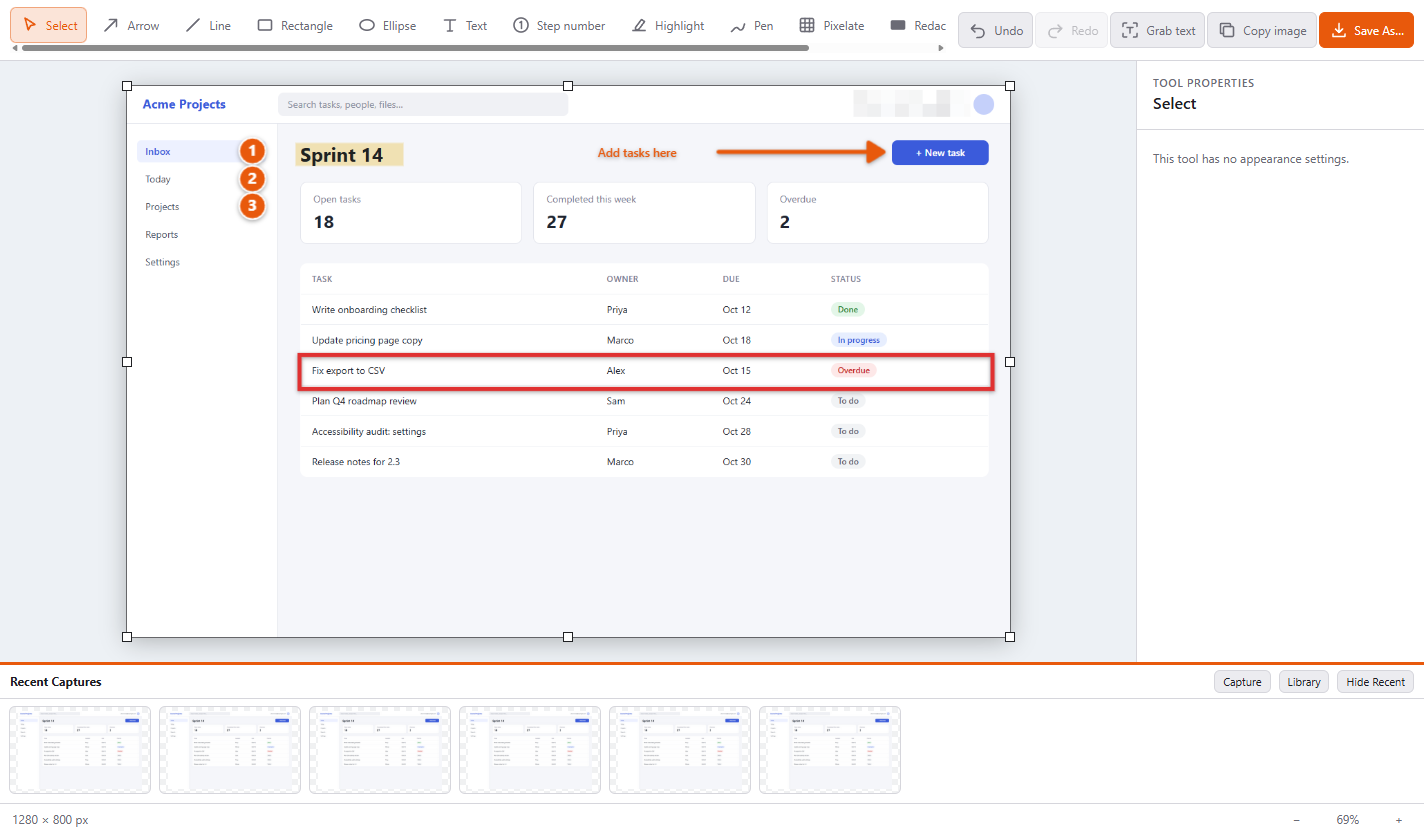
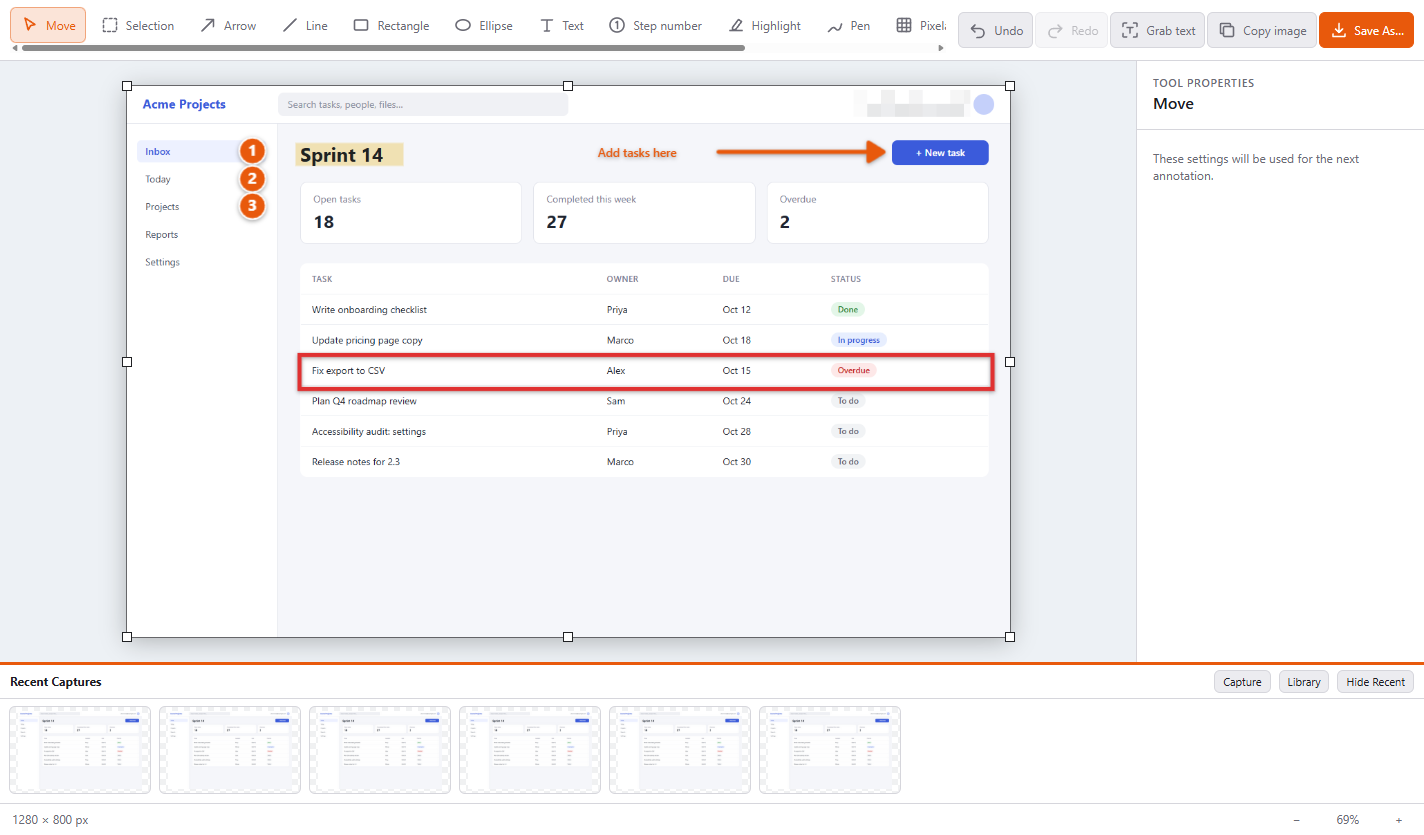
Add pixel selection tool foundation

diff --git a/src/renderer/editor/tools.ts b/src/renderer/editor/tools.ts
@@ -18,6 +18,7 @@ import type { EditorDoc, SnapKind } from './doc'
 import { blockSize, pixelate } from './redact'
 
 export type ToolName =
+  | 'move'
   | 'select'
   | 'arrow'
   | 'line'
@@ -102,6 +103,8 @@ export class Tools {
   tool: ToolName = 'arrow'
   private drag: { start: Point; obj: FabricObject | null } | null = null
   private cropBox: Rect | null = null
+  private pixelSelection: Rect | Ellipse | null = null
+  selectionShape: 'rect' | 'ellipse' = 'rect'
   onCommit: () => void = () => undefined
   onCropChange: (active: boolean) => void = () => undefined
 
@@ -125,6 +128,10 @@ export class Tools {
 
   setTool(tool: ToolName): void {
     if (this.tool === 'crop' && tool !== 'crop') this.cancelCrop()
+    if (this.tool === 'select' && tool !== 'select' && this.pixelSelection) {
+      this.doc.canvas.remove(this.pixelSelection)
+      this.pixelSelection = null
+    }
     this.tool = tool
     const c = this.doc.canvas
     const { color, width } = this.style()
@@ -136,8 +143,8 @@ export class Tools {
       brush.decimate = 2
       c.freeDrawingBrush = brush
     }
-    c.selection = tool === 'select'
-    c.defaultCursor = tool === 'select' ? 'default' : tool === 'text' ? 'text' : 'crosshair'
+    c.selection = tool === 'move'
+    c.defaultCursor = tool === 'move' ? 'default' : tool === 'text' ? 'text' : 'crosshair'
     c.discardActiveObject()
     c.requestRenderAll()
   }
@@ -214,9 +221,13 @@ export class Tools {
 
   private down(o: TPointerEventInfo): void {
     const tool = this.tool
-    if (tool === 'select' || tool === 'pen') return
+    if (tool === 'move' || tool === 'pen') return
+    if (tool === 'select' && this.pixelSelection) {
+      this.doc.canvas.remove(this.pixelSelection)
+      this.pixelSelection = null
+    }
     // Clicking an existing annotation selects/moves it instead of drawing.
-    if (o.target && o.target !== this.doc.bg && o.target !== this.cropBox) return
+    if (tool !== 'select' && o.target && o.target !== this.doc.bg && o.target !== this.cropBox) return
     const p = this.point(o)
     if (tool === 'text') return this.addText(p)
     if (tool === 'step') return this.addStep(p)
@@ -242,6 +253,25 @@ export class Tools {
     let obj = this.drag.obj
 
     switch (this.tool) {
+      case 'select':
+        if (!obj) {
+          const options = {
+            fill: 'rgba(39,134,184,0.12)',
+            stroke: '#2786b8',
+            strokeWidth: 1,
+            strokeDashArray: [6, 4],
+            strokeUniform: true,
+            excludeFromExport: true,
+            evented: false
+          }
+          obj = this.selectionShape === 'ellipse'
+            ? new Ellipse({ ...options, rx: 0, ry: 0 })
+            : new Rect(options)
+          c.add(obj)
+        }
+        if (obj instanceof Ellipse) obj.set({ left: box.x, top: box.y, rx: box.width / 2, ry: box.height / 2 })
+        else obj.set({ left: box.x, top: box.y, width: box.width, height: box.height })
+        break
       case 'arrow':
       case 'line': {
         // Paths can't be reshaped in place; rebuild while dragging.
@@ -349,6 +379,11 @@ export class Tools {
     if (this.tool === 'crop') {
       this.cropBox = obj as Rect
       this.onCropChange(true)
+      return
+    }
+    if (this.tool === 'select') {
+      this.pixelSelection = obj as Rect | Ellipse
+      c.requestRenderAll()
       return
     }
     if (this.tool === 'redact') {
@@ -461,5 +496,44 @@ export class Tools {
 
   get cropping(): boolean {
     return this.cropBox !== null
+  }
+
+  get hasPixelSelection(): boolean {
+    return this.pixelSelection !== null
+  }
+
+  pixelSelectionData(): string | null {
+    const box = this.pixelBox()
+    return box ? this.doc.selectionPixels(box, this.pixelSelection instanceof Ellipse) : null
+  }
+
+  async deletePixelSelection(): Promise<boolean> {
+    const box = this.pixelBox()
+    if (!box) return false
+    await this.doc.eraseBackground(box, this.pixelSelection instanceof Ellipse)
+    this.doc.canvas.remove(this.pixelSelection!)
+    this.pixelSelection = null
+    this.onCommit()
+    return true
+  }
+
+  cropPixelSelection(): boolean {
+    const box = this.pixelBox()
+    if (!box) return false
+    this.doc.canvas.remove(this.pixelSelection!)
+    this.pixelSelection = null
+    this.doc.crop(box)
+    this.onCommit()
+    return true
+  }
+
+  private pixelBox(): Box | null {
+    if (!this.pixelSelection) return null
+    return {
+      x: this.pixelSelection.left,
+      y: this.pixelSelection.top,
+      width: this.pixelSelection.getScaledWidth(),
+      height: this.pixelSelection.getScaledHeight()
+    }
   }
 }

diff --git a/src/renderer/editor/main.ts b/src/renderer/editor/main.ts
@@ -9,7 +9,8 @@ import { Tools, type SelectionStyle, type Style, type ToolName } from './tools'
 const $ = <T extends HTMLElement = HTMLElement>(id: string) => document.getElementById(id) as T
 
 const TOOLS: { name: ToolName; label: string; key: string }[] = [
-  { name: 'select', label: 'Select', key: 'v' },
+  { name: 'move', label: 'Move', key: 'v' },
+  { name: 'select', label: 'Selection', key: 's' },
   { name: 'arrow', label: 'Arrow', key: 'a' },
   { name: 'line', label: 'Line', key: 'l' },
   { name: 'rect', label: 'Rectangle', key: 'r' },
@@ -62,7 +63,7 @@ function selectTool(name: ToolName): void {
   activeTool = name
   tools.setTool(name)
   for (const [n, b] of toolButtons) b.setAttribute('aria-pressed', String(n === name))
-  $('canvas-bounds').hidden = name !== 'select'
+  $('canvas-bounds').hidden = name !== 'move'
   showProperties()
   updateProperties()
 }
@@ -217,6 +218,7 @@ function updateProperties(): void {
   const mixed = selection?.kind === 'mixed'
   const fixedWidthSelection = selectedTool === 'arrow' || selectedTool === 'step'
   $('selection-section').hidden = !selection
+  $('pixel-selection-section').hidden = activeTool !== 'select'
   if (selection) {
     $('selection-x').textContent = String(selection.x)
     $('selection-y').textContent = String(selection.y)
@@ -427,6 +429,10 @@ $('ocr-copy').addEventListener('click', async () => {
 })
 
 function deleteSelection(): void {
+  if (tools.hasPixelSelection) {
+    void tools.deletePixelSelection()
+    return
+  }
   const c = doc.canvas
   const selected = c.getActiveObjects()
   if (!selected.length) return
@@ -468,6 +474,24 @@ $('selection-delete').addEventListener('click', deleteSelection)
 $('selection-front').addEventListener('click', () => reorderSelection(true))
 $('selection-back').addEventListener('click', () => reorderSelection(false))
 
+document.querySelectorAll<HTMLButtonElement>('[data-selection-shape]').forEach((button) => {
+  button.addEventListener('click', () => {
+    tools.selectionShape = button.dataset.selectionShape as 'rect' | 'ellipse'
+    document.querySelectorAll<HTMLButtonElement>('[data-selection-shape]').forEach((item) =>
+      item.setAttribute('aria-pressed', String(item === button)))
+  })
+})
+$('pixel-copy').addEventListener('click', () => {
+  const data = tools.pixelSelectionData()
+  if (data) void api.copyImage(data).then(() => flash('Selection copied'))
+})
+$('pixel-cut').addEventListener('click', () => {
+  const data = tools.pixelSelectionData()
+  if (data) void api.copyImage(data).then(() => tools.deletePixelSelection())
+})
+$('pixel-delete').addEventListener('click', () => void tools.deletePixelSelection())
+$('pixel-crop').addEventListener('click', () => tools.cropPixelSelection())
+
 // ---- keyboard & menu --------------------------------------------------------------
 
 const editingText = () => {
@@ -491,6 +515,12 @@ window.addEventListener('keydown', (e) => {
   if (primary && !e.altKey && e.key.toLowerCase() === 'd') {
     e.preventDefault()
     void duplicateSelection()
+    return
+  }
+  if (primary && !e.altKey && e.key.toLowerCase() === 'x' && tools.hasPixelSelection) {
+    e.preventDefault()
+    const data = tools.pixelSelectionData()
+    if (data) void api.copyImage(data).then(() => tools.deletePixelSelection())
     return
   }
   if (primary || e.altKey) return
@@ -533,7 +563,8 @@ window.addEventListener('keydown', (e) => {
 document.addEventListener('copy', (e) => {
   if (editingText()) return
   e.preventDefault()
-  void copyImage()
+  const selected = tools.pixelSelectionData()
+  void (selected ? api.copyImage(selected).then(() => flash('Selection copied')) : copyImage())
 })
 
 const commands: Record<MenuCommand, () => unknown> = {

diff --git a/src/renderer/editor/doc.ts b/src/renderer/editor/doc.ts
@@ -45,6 +45,7 @@ export interface DocState {
   height: number
   bgLeft: number
   bgTop: number
+  bgDataUrl: string
   objects: unknown[]
 }
 
@@ -126,6 +127,7 @@ export class EditorDoc {
       height: this.height,
       bgLeft: this.bg.left,
       bgTop: this.bg.top,
+      bgDataUrl: this.bg.getSrc(),
       objects: this.annotations().map((o) => {
         const json = o.toObject(CUSTOM_PROPS) as SerializedObject
         if (json.snapAsset && json.src) {
@@ -141,8 +143,13 @@ export class EditorDoc {
     this.canvas.discardActiveObject()
     this.width = state.width
     this.height = state.height
-    this.bg.set({ left: state.bgLeft, top: state.bgTop })
-    this.bg.setCoords()
+    if (this.bg.getSrc() !== state.bgDataUrl) {
+      this.canvas.remove(this.bg)
+      this.setBackground(await FabricImage.fromURL(state.bgDataUrl), state.bgLeft, state.bgTop)
+    } else {
+      this.bg.set({ left: state.bgLeft, top: state.bgTop })
+      this.bg.setCoords()
+    }
     await this.setAnnotations(this.inlineAssets(state.objects))
     this.applyZoom(this.zoom)
   }
@@ -232,6 +239,43 @@ export class EditorDoc {
       out.height
     )
     return out
+  }
+
+  /** Flatten just a selected region, optionally clipped to an ellipse. */
+  selectionPixels(r: Rect, ellipse = false): string {
+    const active = this.canvas.getActiveObject()
+    this.canvas.discardActiveObject()
+    this.canvas.renderAll()
+    const source = this.canvas.toCanvasElement(1 / this.zoom)
+    if (active) this.canvas.setActiveObject(active)
+    const out = document.createElement('canvas')
+    out.width = Math.max(1, Math.round(r.width))
+    out.height = Math.max(1, Math.round(r.height))
+    const ctx = out.getContext('2d')!
+    if (ellipse) {
+      ctx.ellipse(out.width / 2, out.height / 2, out.width / 2, out.height / 2, 0, 0, Math.PI * 2)
+      ctx.clip()
+    }
+    ctx.drawImage(source, r.x, r.y, r.width, r.height, 0, 0, out.width, out.height)
+    return out.toDataURL('image/png')
+  }
+
+  /** Remove pixels from the background while leaving annotations editable. */
+  async eraseBackground(r: Rect, ellipse = false): Promise<void> {
+    const out = document.createElement('canvas')
+    out.width = this.width
+    out.height = this.height
+    const ctx = out.getContext('2d')!
+    ctx.drawImage(this.bg.getElement() as CanvasImageSource, this.bg.left, this.bg.top)
+    ctx.globalCompositeOperation = 'destination-out'
+    if (ellipse) {
+      ctx.beginPath()
+      ctx.ellipse(r.x + r.width / 2, r.y + r.height / 2, r.width / 2, r.height / 2, 0, 0, Math.PI * 2)
+      ctx.fill()
+    } else ctx.fillRect(r.x, r.y, r.width, r.height)
+    this.canvas.remove(this.bg)
+    this.setBackground(await FabricImage.fromURL(out.toDataURL('image/png')), 0, 0)
+    this.canvas.requestRenderAll()
   }
 
   /** Shift everything so `r` becomes the new document bounds. */

diff --git a/src/renderer/editor.html b/src/renderer/editor.html
@@ -48,6 +48,21 @@
           </div>
         </div>
         <div class="panel-body">
+          <section id="pixel-selection-section" class="property-section" hidden>
+            <h2>Selection Shape</h2>
+            <div class="selection-shapes">
+              <button data-selection-shape="rect" aria-pressed="true">Rectangle</button>
+              <button data-selection-shape="ellipse" aria-pressed="false">Ellipse</button>
+            </div>
+            <h2 class="selection-actions-title">Selection Actions</h2>
+            <div class="selection-actions">
+              <button id="pixel-copy">Copy</button>
+              <button id="pixel-cut">Cut</button>
+              <button id="pixel-delete" class="danger">Delete</button>
+              <button id="pixel-crop">Crop</button>
+            </div>
+            <p class="property-help">Drag on the image to select pixels. Deleted areas become transparent.</p>
+          </section>
           <section id="selection-section" class="property-section selection-section" hidden>
             <div class="selection-metrics" aria-label="Selection position and size">
               <span><small>X</small><output id="selection-x">0</output></span>

diff --git a/src/renderer/editor/icons.ts b/src/renderer/editor/icons.ts
@@ -3,7 +3,8 @@ const svg = (body: string) =>
   `<svg viewBox="0 0 20 20" width="20" height="20" fill="none" stroke="currentColor" stroke-width="1.6" stroke-linecap="round" stroke-linejoin="round" aria-hidden="true">${body}</svg>`
 
 export const icons = {
-  select: svg('<path d="M5 3l10 6.5-4.5 1.2L8.3 15z"/>'),
+  move: svg('<path d="M5 3l10 6.5-4.5 1.2L8.3 15z"/>'),
+  select: svg('<rect x="3.5" y="3.5" width="13" height="13" rx="1" stroke-dasharray="2.5 2.5"/>'),
   arrow: svg('<path d="M4 16L15 5"/><path d="M8.5 4.5H15.5V11.5"/>'),
   line: svg('<path d="M4 16L16 4"/>'),
   rect: svg('<rect x="3.5" y="5" width="13" height="10" rx="1.5"/>'),

diff --git a/src/renderer/editor/editor.css b/src/renderer/editor/editor.css
@@ -360,6 +360,10 @@ body {
   color: #c92a2a;
 }
 
+.selection-shapes { display: grid; grid-template-columns: 1fr 1fr; gap: 7px; }
+.selection-shapes button[aria-pressed='true'] { color: var(--accent); border-color: var(--accent); }
+.selection-actions-title { margin-top: 16px !important; }
+
 .swatches {
   flex-wrap: wrap;
   gap: 7px;

diff --git a/docs/editor-roadmap.md b/docs/editor-roadmap.md
@@ -30,6 +30,8 @@ Markcraft now opens with a dedicated capture window, and the tray icon restores 
 
 Markcraft keeps the Editor and Library mutually exclusive. Opening the Library closes the Editor; opening a Library item or choosing Back to Editor closes the Library and restores one Editor window. Recent-strip items still replace the current document in place, reset its undo history and update the active thumbnail.
 
+Selection work has begun by separating annotation **Move** from pixel **Selection**. Rectangle and ellipse pixel selections support Copy, Cut, Delete-to-transparency and Crop, with background edits stored in undo/redo history. Polygon, freehand, multiple/inverted selections, moving selected pixels and content-aware Auto-Fill remain in the next selection milestones.
+
 Validation for this milestone passed on October 19, 2026: TypeScript checking, all seven unit tests, the production build, the native Electron editor smoke test, and screenshot generation. The smoke test covered drawing, undo/redo, exact crop dimensions, editable document saving, and burned-in redactions. Updated editor, OCR and selection screenshots are stored in `docs/screenshots/`.
 
 Deliver one complete editing workflow: **open a screenshot, choose a tool, draw an annotation, adjust its appearance, undo a change, then copy or save the result**.
